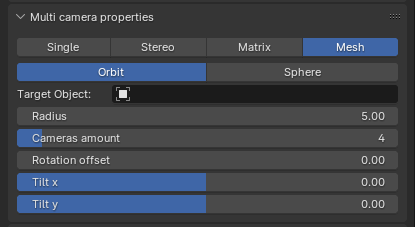
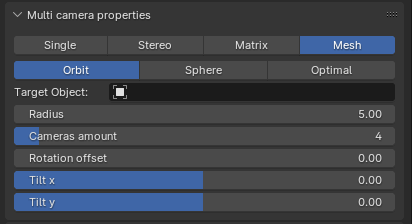
Added instructions for mesh mode

diff --git a/README.md b/README.md
@@ -91,12 +91,44 @@ In the picture above the amount and distance parameters were set to (15, 15) and
 
 ### Mesh camera
 
+The mesh mode comes in 3 variants.
+
 #### Orbit mode
-![stereo camera mode](./docs/images/modes/mesh/mesh-orbit-mode.png)
+![mesh camera mode - orbit](./docs/images/modes/mesh/mesh-orbit-mode.png)
+
+The orbit mode of mesh camera allows you to surround chosen object with a ring of cameras.
+You can determine the radius of the ring, amount of cameras and rotation offset.
+Additionally, the whole setup can be tilted along x or y-axis.
+
+![mesh camera mode - orbit; radius 5, 4 cameras, offset 0, tilt (0, 0)](./docs/images/modes/mesh/mesh-orbit-5-4-0-0-0.png)
+In the picture above the parameters were set to: radius - 5, cameras - 4, offset - 0, tilt - (0, 0).
+
+![mesh camera mode - orbit; radius 7, 20 cameras, offset 0, tilt (-20, 0)](./docs/images/modes/mesh/mesh-orbit-7-20-0--20-0.png)
+In the picture above the parameters were set to: radius - 7, cameras - 20, offset - 0, tilt - (-20, 0).
+
+![mesh camera mode - orbit; radius 9, 30 cameras, offset 0, tilt (-20, -60)](./docs/images/modes/mesh/mesh-orbit-9-30-0--20--60.png)
+In the picture above the parameters were set to: radius - 9, cameras - 30, offset - 0, tilt - (-20, -60).
+
 
 #### Sphere mode
-![stereo camera mode](./docs/images/modes/mesh/mesh-sphere-mode.png)``
+![mesh camera mode - sphere](./docs/images/modes/mesh/mesh-sphere-mode.png)
 
+The sphere mode allows to enclose the object with a sphere of cameras.
+You can change the `Radius` and `Cameras amount` parameters.
+
+![mesh camera mode - sphere; radius 5, 6 cameras](./docs/images/modes/mesh/mesh-sphere-5-6.png)
+In the picture above the radius was set to 5 while there were 6 cameras.
+
+![mesh camera mode - sphere; radius 7, 100 cameras](./docs/images/modes/mesh/mesh-sphere-7-100.png)
+In the picture above the radius was set to 7 while there were 100 cameras.
+
+
+#### Optimal mode
+![mesh optimal camera mode](./docs/images/modes/mesh/mesh-optimal-mode.png)
+
+
+This mode tries to optimise the position of the cameras to picture the whole object in each of the 6 cameras.
+You can change the rotation offset along z-axis to meet your preferences.
 
 
 ### Rendering
